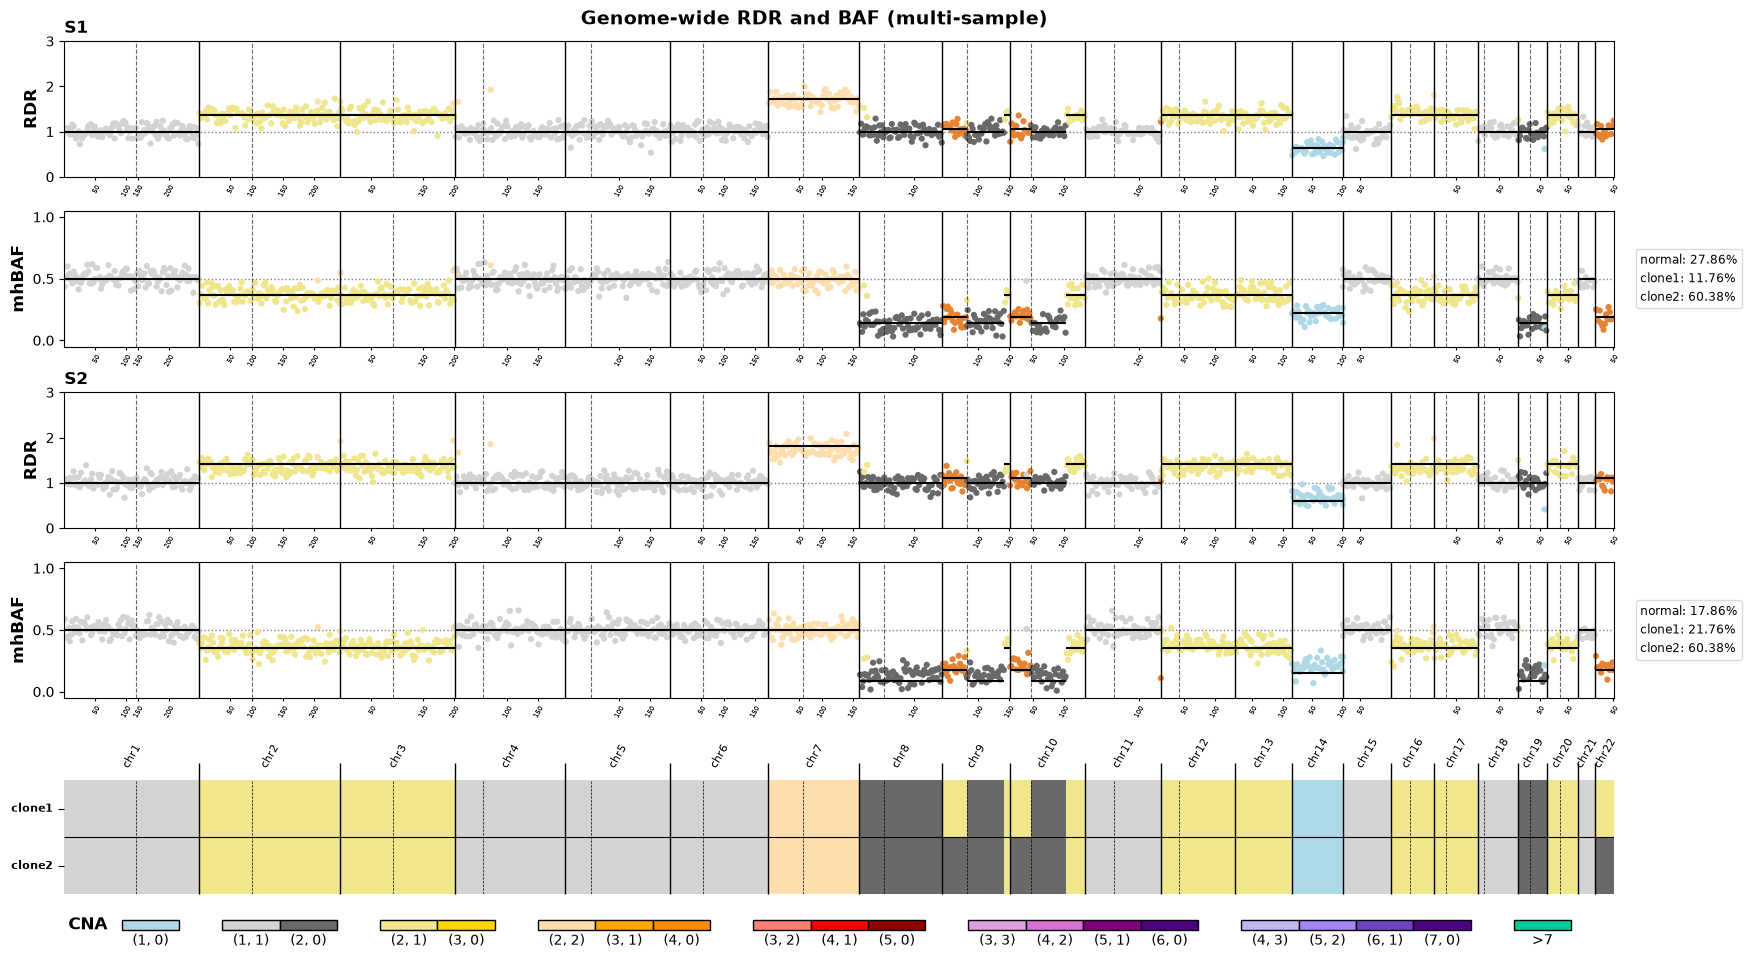
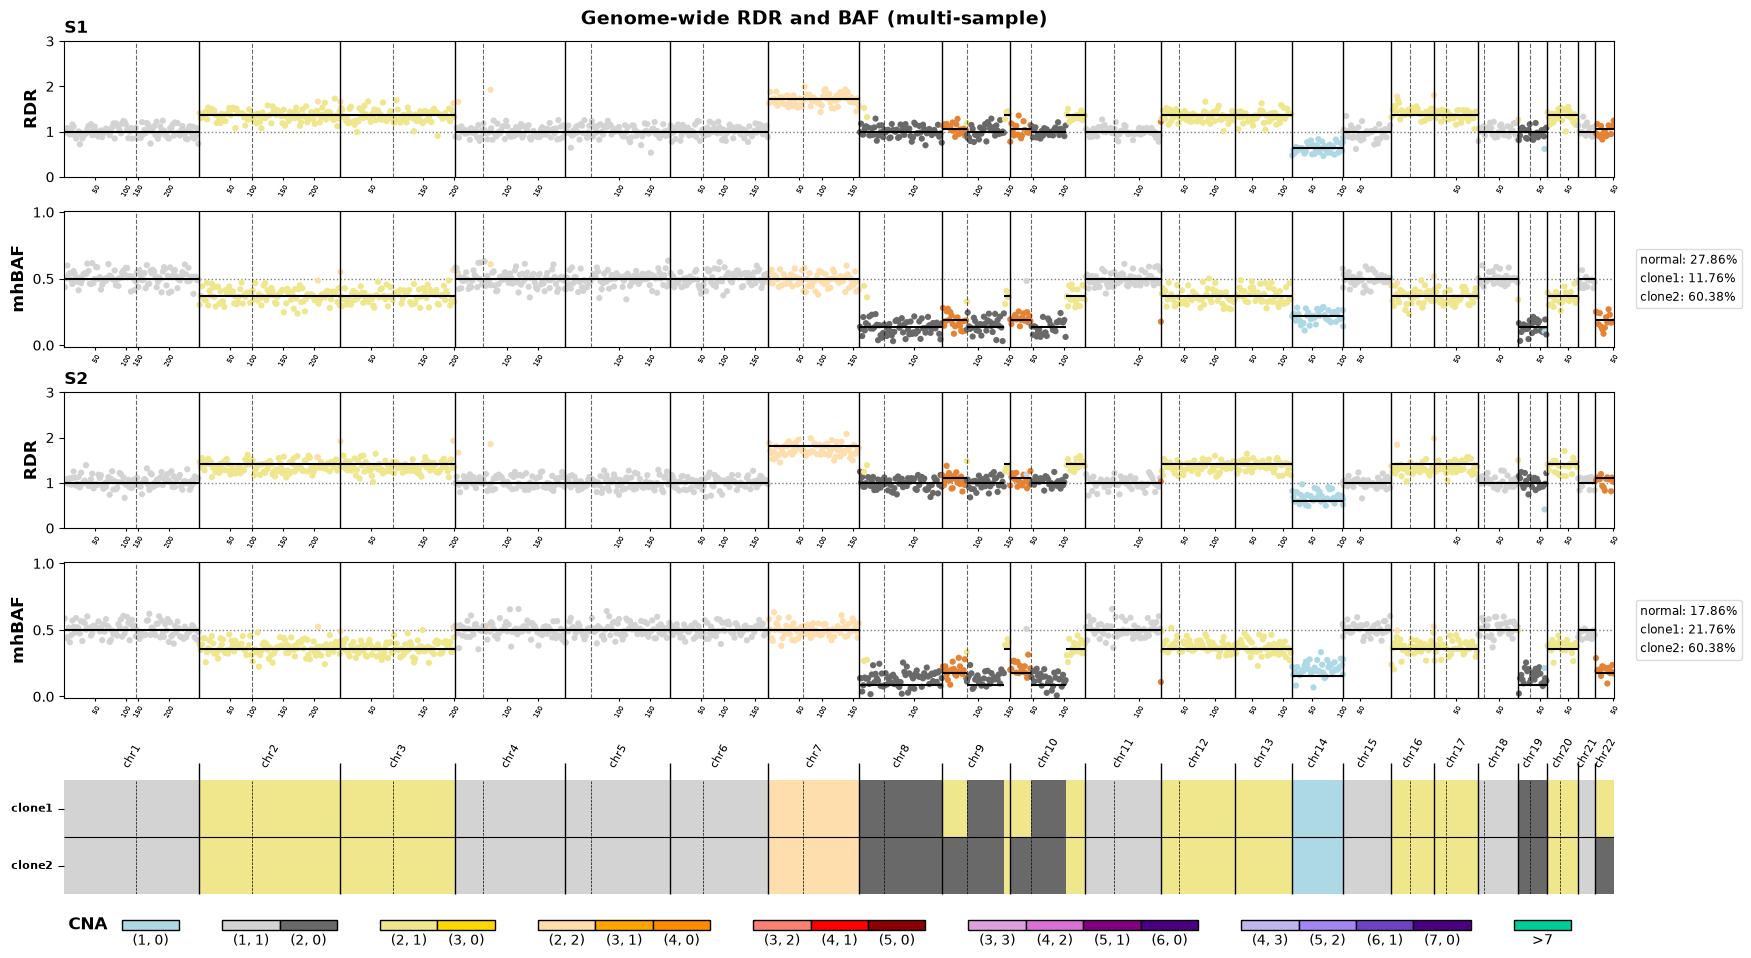
feat: export BAF_LIM, the default limits for a BAF axis on [0, 1]
BAF_LIM = (-0.01, 1.01). The pad keeps points at exactly 0 or 1 off the
spine while the ticks still run 0.0 to 1.0, the pad being too small to
label. The gallery/README BAF row (ylim) and the RDR-vs-BAF scatter (xlim)
use it in place of the ad-hoc (-0.05, 1.05) and (0, 1); example images are
regenerated against it.

diff --git a/tests/test_utils_colormap.py b/tests/test_utils_colormap.py
@@ -1,9 +1,11 @@
 """Palettes and the shared resolvers - pure functions, no rendering."""
 
 import matplotlib.colors as mcolors
+import matplotlib.pyplot as plt
 import numpy as np
 
 from cnplot import (
+    BAF_LIM,
     MARKER_SIZE_LARGE,
     MARKER_SIZE_SMALL,
     get_baf_cmap,
@@ -35,6 +37,17 @@ def test_ylim_picks_tightest_window():
     assert resolve_ylim([0.1, -4.0]) == (-5, 5)
     assert resolve_ylim([0.1], expected=[3.0]) == (-5, 5)
     assert resolve_ylim([np.nan]) == (-5, 5)
+
+
+def test_baf_lim_pads_without_moving_ticks():
+    assert BAF_LIM == (-0.01, 1.01)
+    fig, ax = plt.subplots()
+    ax.set_ylim(*BAF_LIM)
+    fig.canvas.draw()
+    lo, hi = BAF_LIM
+    shown = [t for t in ax.get_yticks() if lo <= t <= hi]
+    assert np.allclose([shown[0], shown[-1]], [0.0, 1.0])
+    plt.close(fig)
 
 
 def test_ylim_scaled_caps_outliers():

diff --git a/examples/plot_gallery.py b/examples/plot_gallery.py
@@ -27,6 +27,7 @@ HERE = os.path.dirname(os.path.abspath(__file__))
 sys.path.insert(0, os.path.join(HERE, "..", "tests"))
 
 from cnplot import (  # noqa: E402
+    BAF_LIM,
     GenomeAxis,
     get_baf_cmap,
     get_log2rdr_cmap,
@@ -73,7 +74,7 @@ save(fig, "profile")
 # 2. genome-wide RDR + BAF, multi-sample, over the shared profile
 row_specs = [
     make_row_spec("RD", ylabel="RDR", ylim=(0, 3), href=1.0),
-    make_row_spec("BAF", ylabel="mhBAF", ylim=(-0.05, 1.05), href=0.5),
+    make_row_spec("BAF", ylabel="mhBAF", ylim=BAF_LIM, href=0.5),
 ]
 fig = plot_scatter_1d_multisample(
     sim.obs,
@@ -98,7 +99,7 @@ grid = plot_scatter_2d(
     group="S1",
     hue="cnp",
     palette=palette,
-    xlim=(0, 1),
+    xlim=BAF_LIM,
     ylim=(0, 3),
     xlabel="mhBAF",
     ylabel="RDR",

diff --git a/src/cnplot/cnplot_utils.py b/src/cnplot/cnplot_utils.py
@@ -24,6 +24,7 @@ from .cnplot_genome_axis import GenomeAxis
 logger = logging.getLogger(__name__)
 
 __all__ = [
+    "BAF_LIM",
     "CN_PREFIX",
     "EXP_PREFIX",
     "FigureSaver",
@@ -66,6 +67,10 @@ SAMPLE_COL = "SAMPLE"
 MARKER_SIZE_SMALL = 2.0
 MARKER_SIZE_LARGE = 20.0
 MAX_NDOTS = 5000
+
+# Default limits for a BAF-like axis on [0, 1]. The pad keeps points at 0 or 1
+# off the spine; ticks still run 0.0 to 1.0, the pad being too small to label.
+BAF_LIM = (-0.01, 1.01)
 
 
 # =============================================================================

diff --git a/src/cnplot/__init__.py b/src/cnplot/__init__.py
@@ -50,6 +50,7 @@ from .cnplot_heatmap import plot_column_strips, plot_heatmap, plot_strip_legend
 from .cnplot_intcnp import plot_cnv_profile
 from .cnplot_io_utils import read_bed, read_chr_sizes
 from .cnplot_utils import (
+    BAF_LIM,
     CN_PREFIX,
     EXP_PREFIX,
     MARKER_SIZE_LARGE,
@@ -97,6 +98,7 @@ __version__ = _read_version()
 
 __all__ = [
     "BAF_COLORS",
+    "BAF_LIM",
     "CELLTYPE_CMAP",
     "CN_PREFIX",
     "DATASET_CMAP",

diff --git a/README.md b/README.md
@@ -60,7 +60,7 @@ We plots the per-bin read-depth ratio (RDR) and B-allele frequency (BAF) for bot
 Reference: [`obs_df`](docs/reference.md#obs_df-bin-level-observations), [`expected_df` (1D)](docs/reference.md#expected_df-1d-overlay).
 
 ```python
-from cnplot import get_mixcn_cmap, make_row_spec, plot_scatter_1d_multisample
+from cnplot import BAF_LIM, get_mixcn_cmap, make_row_spec, plot_scatter_1d_multisample
 
 obs_df = pd.read_table("sample.bbc.ucn.tsv")
 expected_1d = pd.read_table("sample.expected1d.tsv")
@@ -72,7 +72,7 @@ palette = get_mixcn_cmap(obs_df["cnp"].unique())
 
 rows = [
     make_row_spec("RD", ylabel="RDR", ylim=(0, 3), href=1.0),
-    make_row_spec("BAF", ylabel="mhBAF", ylim=(-0.05, 1.05), href=0.5),
+    make_row_spec("BAF", ylabel="mhBAF", ylim=BAF_LIM, href=0.5),
 ]
 fig = plot_scatter_1d_multisample(
     obs_df, genome_axis, row_specs=rows, groups=["S1", "S2"],
@@ -88,13 +88,13 @@ We plots the joint RDR-vs-BAF scatter for one sample, with the expected copy-num
 Reference: [`expected_df` (2D)](docs/reference.md#expected_df-2d-landmarks).
 
 ```python
-from cnplot import plot_scatter_2d
+from cnplot import BAF_LIM, plot_scatter_2d
 
 expected_2d = pd.read_table("sample.expected2d.tsv")
 grid = plot_scatter_2d(
     obs_df, "BAF", "RD", expected_df=expected_2d, group="S1",
     hue="cnp", palette=palette, title="RDR vs BAF joint scatter",
-    xlim=(0, 1), ylim=(0, 3), xlabel="mhBAF", ylabel="RDR",
+    xlim=BAF_LIM, ylim=(0, 3), xlabel="mhBAF", ylabel="RDR",
 )
 ```
 

diff --git a/CHANGELOG.md b/CHANGELOG.md
@@ -3,6 +3,10 @@
 ## Unreleased
 
 ### cnplot package
+- `BAF_LIM = (-0.01, 1.01)`: default limits for a BAF-like axis on [0, 1], exported from
+  `cnplot`. The pad keeps points at exactly 0 or 1 off the spine while the ticks still run
+  0.0 to 1.0. Used by the gallery/README BAF row (`ylim`) and the RDR-vs-BAF scatter
+  (`xlim`), which previously used `(-0.05, 1.05)` and `(0, 1)`.
 - `FigureSaver` no longer holds a whole-figure raster buffer per rasterized artist.
   matplotlib renders each rasterized artist into a buffer the size of the entire figure
   and passes the PDF backend a view of it, and the backend keeps every image until the
